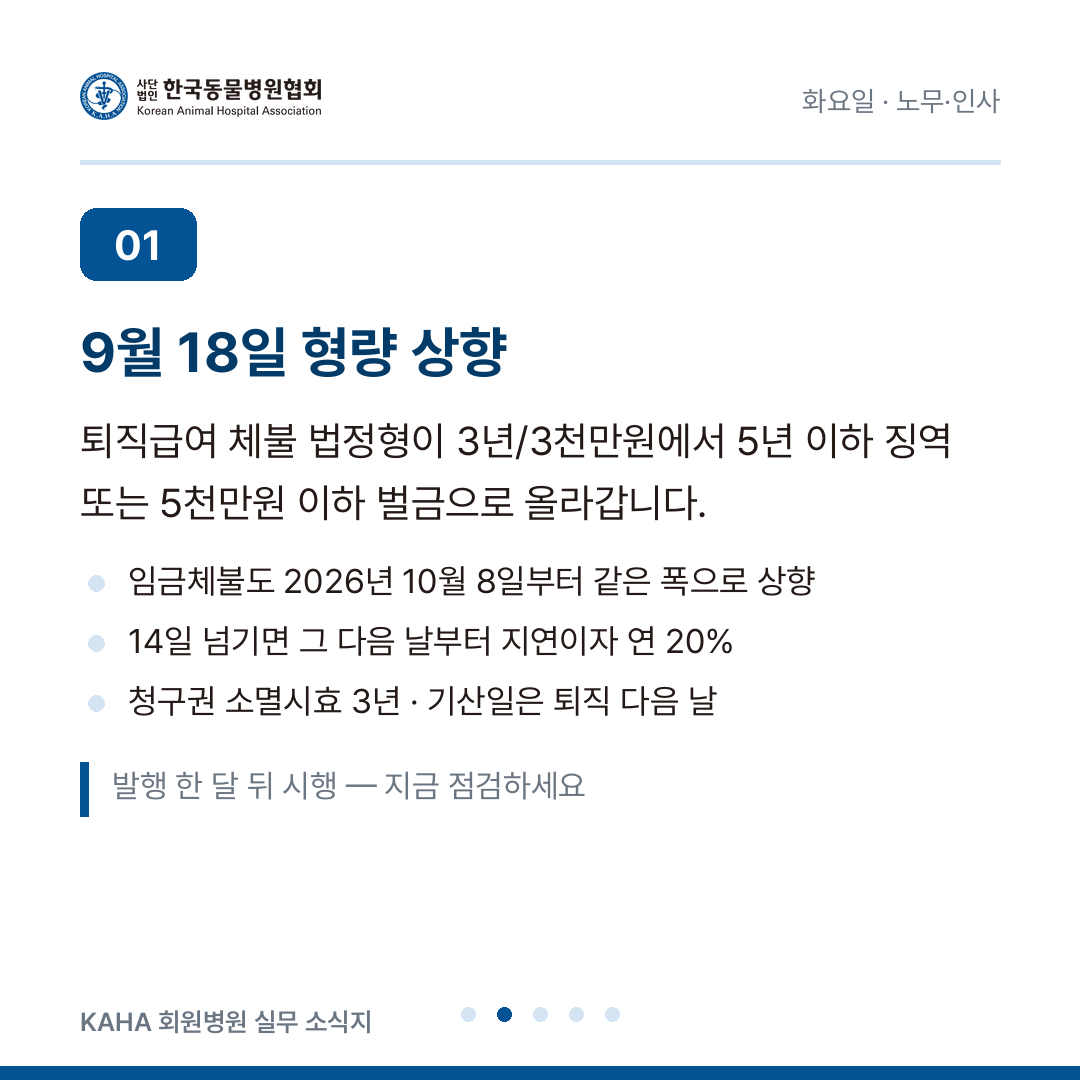
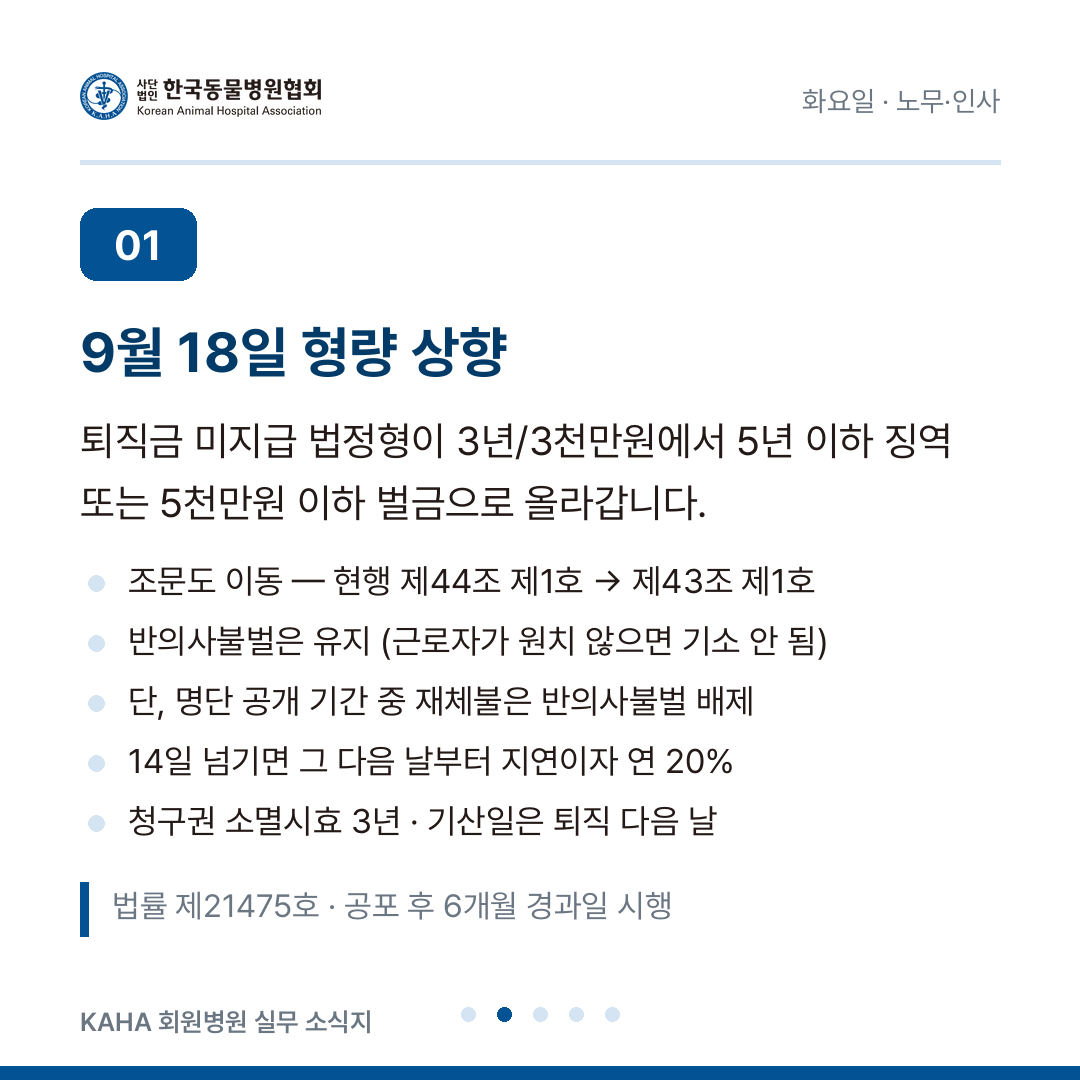
근로자퇴직급여 보장법 원문 대조 — 8/18 벌칙 조문 번호 오류 정정
원장 제공 원문(법률 제21475호)으로 재검증. 형량(5년/5천만원)과 시행일
(2026.9.18)은 정확했으나 조문 번호가 틀렸음.

- reference/근로자퇴직급여보장법.md 신설
- 퇴직금 미지급 벌칙: 현행 제44조 제1호 → 2026.9.18부터 제43조 제1호로
  이동하며 형량 상향. 조문 이동 설명 문단 추가, 출처란 정정
- 반의사불벌 절 신설 — 명단 공개 기간 중 재체불 시 배제(법 제43조 단서)
- 푸른씨앗 확대 시행일 7월 2일 → 7월 1일 정정, 부칙 특례표로 교체
- "종전 30인 이하"·"IRP 300만원 이하" 삭제 (원문 미확보)
- 상시 10명 미만 특례(제25조)·국가 지원 근거(제23조의14) 추가
- 임금체불(근로기준법 제109조, 2026.10.8)은 원문 미확보로 본문·카드에서
  제외하고 확인요청 1-2-b로 분리
- 8/18 카드 재생성 (넘침 없음)
- README: 시행 전 개정 조문 인용 원칙 신설(두 버전 병기·조문 이동 확인),
  공휴일 그대로 발행 규칙 명시
- 8/17 광복절 대체공휴일 → 그대로 발행 확정

Claude-Session: https://claude.ai/code/session_01AGZeeXA6uHWoVfsGg6D1AQ

diff --git a/reference/근로자퇴직급여보장법.md b/reference/근로자퇴직급여보장법.md
@@ -1,0 +1,141 @@
+# 근로자퇴직급여 보장법 (발췌 — 동물병원 실무 관련 조문)
+
+**[시행 2026. 7. 1.] [법률 제21475호, 2026. 3. 17., 일부개정]**
+**+ 제43조·제44조 개정규정은 [시행 2026. 9. 18.]**
+소관: 고용노동부 퇴직연금복지과 · 출처: 국가법령정보센터(law.go.kr)
+저장일: 2026-08-14 (원장 제공 원문)
+
+> 소식지 집필 시 **이 파일을 1차 근거로 사용**합니다.
+> 이 법은 **한 조문에 두 버전이 병기**되어 있습니다(현행 / 2026.9.18 시행). 벌칙을 인용할 때 **어느 버전인지 반드시 명시**하십시오.
+
+---
+
+## ★ 벌칙 — 2026. 9. 18. 시행으로 조문이 이동합니다 (가장 틀리기 쉬운 부분)
+
+### 현행 (～2026. 9. 17.)
+
+**제43조(벌칙)** 제37조제6항을 위반한 자는 **5년 이하의 징역 또는 5천만원 이하의 벌금**에 처한다. <개정 2021. 4. 13.>
+→ 금융거래정보 누설·목적 외 이용만 규율. 체불과 무관.
+
+**제44조(벌칙)** 다음 각 호의 어느 하나에 해당하는 자는 **3년 이하의 징역 또는 3천만원 이하의 벌금**에 처한다. 다만, **제1호 및 제2호의 경우**(「근로기준법」 제43조의2에 따라 명단 공개된 체불사업주가 명단 공개 기간 중에 제1호 또는 제2호에 해당하는 경우는 제외한다) **피해자의 명시적인 의사에 반하여 공소를 제기할 수 없다.** <개정 2021. 4. 13., 2025. 11. 11.>
+1. **제9조제1항을 위반하여 퇴직금을 지급하지 아니한 자**
+2. 근로자가 퇴직할 때에 제17조제2항·제3항, 제20조제5항, 제23조의7제2항 또는 제25조제3항을 위반하여 급여를 지급하지 아니하거나 부담금 또는 지연이자를 납입하지 아니한 자
+3. 제27조제4항을 위반하여 가입자 보호조치를 하지 아니한 퇴직연금사업자
+4. 제33조제3항 및 제4항을 위반한 퇴직연금사업자
+
+### 2026. 9. 18. 시행 (법률 제21475호, 2026. 3. 17. 개정)
+
+**제43조(벌칙)** 다음 각 호의 어느 하나에 해당하는 자는 **5년 이하의 징역 또는 5천만원 이하의 벌금**에 처한다. 다만, 제1호 및 제2호의 경우(「근로기준법」 제43조의2에 따라 명단 공개된 체불사업주가 명단 공개 기간 중에 제1호 또는 제2호에 해당하는 경우는 제외한다) **피해자의 명시적인 의사에 반하여 공소를 제기할 수 없다.** <개정 2021. 4. 13., 2026. 3. 17.>
+1. **제9조제1항을 위반하여 퇴직금을 지급하지 아니한 자**
+2. 근로자가 퇴직할 때에 제17조제2항·제3항, 제20조제5항, 제23조의7제2항 또는 제25조제3항을 위반하여 급여를 지급하지 아니하거나 부담금 또는 지연이자를 납입하지 아니한 자
+3. 제37조제6항을 위반한 자
+
+**제44조(벌칙)** 다음 각 호의 어느 하나에 해당하는 자는 **3년 이하의 징역 또는 3천만원 이하의 벌금**에 처한다. <개정 2021. 4. 13., 2025. 11. 11., 2026. 3. 17.>
+1. 제27조제4항을 위반하여 가입자 보호조치를 하지 아니한 퇴직연금사업자
+2. 제33조제3항 및 제4항을 위반한 퇴직연금사업자
+
+> **⚠ 집필 시 주의 (2026-08-14 실제 발생한 오류)**
+> 2026-08-18 호 출처란에 퇴직금 체불 벌칙을 **제44조**로 표기했으나, **2026. 9. 18.부터는 제43조**입니다.
+> 개정으로 **퇴직금 미지급이 제44조에서 제43조로 옮겨가면서** 형량이 3년/3천만원 → 5년/5천만원으로 올라간 구조입니다.
+> 발행일(8/18) 기준으로는 아직 제44조가 현행이므로, **"현행 제44조 → 9월 18일부터 제43조"**로 함께 써야 정확합니다.
+
+**부칙 <법률 제21475호, 2026. 3. 17.> 제1조(시행일)**
+이 법은 **2026년 7월 1일**부터 시행한다. 다만, **제43조와 제44조의 개정규정은 공포 후 6개월이 경과한 날부터 시행**한다. → law.go.kr 표기 **[시행일: 2026. 9. 18.]**
+
+**부칙 <법률 제21135호, 2025. 11. 11.>**
+제1조(시행일) 이 법은 **공포한 날부터 시행**한다.
+제2조(벌칙에 관한 적용례) 제44조의 개정규정은 이 법 시행 이후 발생한 위반행위부터 적용한다.
+→ 이때 들어온 것이 **반의사불벌 배제 단서**(명단 공개 기간 중 재체불 시 피해자 의사와 무관하게 공소 제기 가능)입니다.
+
+---
+
+## 제2조(정의) — 실무 관련
+
+- 제4호 **평균임금** = 「근로기준법」 제2조제1항제6호에 따른 평균임금
+- 제6호 **퇴직급여제도** = 확정급여형(DB) + 확정기여형(DC) + 중소기업퇴직연금기금제도 + 제8조 퇴직금제도
+- 제14호 **중소기업퇴직연금기금제도**(푸른씨앗) = **상시 100명 미만**의 근로자를 사용하는 사업 <개정 2026. 3. 17.>
+
+**부칙 <법률 제21475호> 제2조(적용 대상 특례)** — 제2조제14호의 "100명"은
+1. **2026년 7월 1일 ～ 2026년 12월 31일: 50명**
+2. **2027년 1월 1일부터: 100명**
+
+> **⚠ 주의**: 확대 시행일은 **2026년 7월 1일**입니다(법 본문 시행일과 동일). "7월 2일"은 오류.
+> 제26조제6호의 "상시 30명 이하"는 **공단이 퇴직연금사업자가 될 수 있는 범위**이지 기금제도 가입 대상이 아닙니다. 혼동 금지.
+
+## 제3조(적용범위)
+
+근로자를 사용하는 **모든 사업 또는 사업장**에 적용. 다만 동거하는 친족만을 사용하는 사업 및 가구 내 고용활동은 제외.
+→ **상시근로자 수 제한 없음.** 5인 미만 동물병원도 적용.
+
+## 제4조(퇴직급여제도의 설정) ★
+
+① 사용자는 퇴직하는 근로자에게 급여를 지급하기 위하여 퇴직급여제도 중 하나 이상의 제도를 설정하여야 한다. **다만, 계속근로기간이 1년 미만인 근로자, 4주간을 평균하여 1주간의 소정근로시간이 15시간 미만인 근로자에 대하여는 그러하지 아니하다.**
+② 하나의 사업에서 급여 및 부담금 산정방법의 적용 등에 **차등을 두어서는 아니 된다.**
+③ 제도 설정·변경 시 **근로자대표의 동의**
+④ 내용 변경 시 근로자대표 **의견 청취**, 불리하게 변경 시 **동의**
+
+## 제8조(퇴직금제도의 설정 등)
+
+① **계속근로기간 1년에 대하여 30일분 이상의 평균임금**
+② 중간정산은 **대통령령으로 정하는 사유**로 **근로자가 요구하는 경우**에 한함. 정산 후 계속근로기간은 정산시점부터 새로 계산.
+
+## 제9조(퇴직금의 지급 등)
+
+① 퇴직한 경우 **지급사유가 발생한 날부터 14일 이내** 지급. **다만 특별한 사정이 있는 경우 당사자 간 합의로 지급기일 연장 가능.** <개정 2021. 4. 13.>
+② 퇴직금은 **근로자가 지정한 개인형퇴직연금제도(IRP)의 계정등으로 이전하는 방법으로 지급.** 다만 **근로자가 55세 이후에 퇴직하여 급여를 받는 경우 등 대통령령으로 정하는 사유**가 있으면 예외. <신설 2021. 4. 13., 개정 2026. 3. 17.>
+③ 계정등을 지정하지 아니한 경우 **근로자 명의의 IRP 계정으로 이전.**
+
+> **미확보**: 제2항 단서의 대통령령 예외 전체 목록(시행령)은 이 파일에 없습니다. **"퇴직급여액 300만원 이하" 등 개별 예외를 단정해 쓰지 마십시오.**
+
+## 제10조(퇴직금의 시효)
+
+퇴직금을 받을 권리는 **3년간** 행사하지 아니하면 시효로 소멸.
+
+## 제11조(퇴직급여제도의 미설정에 따른 처리)
+
+사용자가 퇴직급여제도나 IRP를 설정하지 아니한 경우 **제8조제1항에 따른 퇴직금제도를 설정한 것으로 본다.**
+
+## 제12조(퇴직급여등의 우선변제)
+
+② **최종 3년간의 퇴직급여등**은 질권·저당권 담보채권, 조세·공과금 및 다른 채권에 **우선변제.**
+③ 퇴직금·DB 급여는 계속근로기간 1년에 대하여 **30일분의 평균임금**으로 계산.
+
+## 제25조(10명 미만을 사용하는 사업에 대한 특례)
+
+① 상시 **10명 미만** 사업은 사용자가 개별 근로자의 동의를 받거나 근로자의 요구에 따라 **IRP를 설정하면 퇴직급여제도를 설정한 것으로 본다.**
+② 준수사항: 퇴직연금사업자 선정 시 개별 근로자 동의, **연간 임금총액의 12분의 1 이상 현금 납입**, 가입자 추가 부담금 허용, 매년 1회 이상 정기 납입(지연 시 지연이자)
+③ 퇴직 등 사유 발생 시 **14일 이내** 미납 부담금 + 지연이자 납입. 합의로 연장 가능.
+
+> **실무**: 대부분의 동물병원이 이 특례 대상입니다.
+
+## 제32조(사용자의 책무) — 퇴직급여 감소 예방
+
+⑤ DB형 또는 퇴직금제도를 설정한 사용자는 다음 사유가 있으면 **근로자에게 퇴직급여가 감소할 수 있음을 미리 알리고** 근로자대표와 협의해 필요한 조치를 하여야 한다.
+1. 임금피크제(정년 연장·보장과 연계한 임금 조정)
+2. **소정근로시간을 1일 1시간 이상 또는 1주 5시간 이상 단축**하여 3개월 이상 계속 근로하기로 한 경우
+3. 주 52시간 시행에 따른 근로시간 단축으로 임금이 감소하는 경우
+4. 그 밖에 고용노동부령으로 정하는 경우
+
+→ 위반 시 **500만원 이하의 벌금**(제46조제3호)
+
+## 제47조(양벌규정)
+
+**제44조부터 제46조까지**의 위반행위 시 행위자 외 법인·개인에게도 벌금형.
+
+## 제48조(과태료)
+
+① **1천만원 이하** — 적립금 부족 미해소 사용자, **제32조제2항 교육 미실시 사용자** 등
+② **500만원 이하** — 퇴직연금규약 미신고, 제35조 시정명령 불이행 등
+
+---
+
+## 자주 틀리는 지점 정리
+
+| 항목 | 정확한 내용 | 흔한 오류 |
+|---|---|---|
+| 퇴직금 체불 벌칙 조문 | 현행 **제44조** → 2026.9.18부터 **제43조** | 개정 후에도 제44조라고 씀 |
+| 형량 | 3년/3천만원 → **5년/5천만원** (2026.9.18) | 시행일을 공포일(2026.3.17)로 씀 |
+| 반의사불벌 | 원칙 적용, **다만 명단 공개 기간 중 재체불은 배제** | 단서를 빠뜨림 |
+| 푸른씨앗 확대 | **2026.7.1**부터 50명 미만, 2027.1.1부터 100명 미만 | "7월 2일", "30인 이하 → 50인" |
+| IRP 이전 예외 | 55세 이후 퇴직 **등 대통령령** (시행령 미확보) | "300만원 이하"를 단정 |
+| 적용범위 | 상시근로자 수 무관 (제3조) | 5인 미만 제외로 오해 |

diff --git a/factcheck/확인요청.md b/factcheck/확인요청.md
@@ -18,8 +18,7 @@
   1. **그대로 8/17 발행** — 회원 원장님들이 휴일에도 확인하실 수 있으니 문제없다고 보시는 경우
   2. **한 칸씩 밀기** — 8/17분을 8/31(월)로 옮기고 8/18～8/28을 그대로 두거나, 전체를 하루씩 이동
   3. **8/17 건너뛰기** — 해당 호를 다음 월요일에 발행
-- **반영**: 결정만 알려주시면 파일명·`archive.json`·카드 폴더명·커밋 메시지를 일괄 조정하겠습니다. 별도 말씀이 없으면 **선택지 1(그대로 발행)**로 진행합니다.
-- **함께 정해두면 좋은 것**: 앞으로 공휴일에 발행일이 걸릴 때의 기본 규칙(그대로 발행 / 다음 평일로 이동)을 README 운영 규칙에 넣어두겠습니다.
+- ✅ **결정 (2026-08-14, 원장 확인): 선택지 1 — 그대로 8/17 발행.** 일정 변경 없음. 앞으로도 공휴일에 발행일이 걸리면 **그대로 발행**을 기본 규칙으로 하고 README 운영 규칙에 반영했습니다.
 
 ---
 
@@ -32,12 +31,21 @@
 - **반영 완료**: 8/21 본문에 보존기간·진료부 기재사항 표·검안부 기재사항 표 추가, 8/19에 별지 서식 번호와 동의 절차 추가, 8/26에 보존기간 복원, 카드 재생성, 8/12 팩트체크 기록 확정
 - **기록**: 재검증 중 검색엔진이 반복적으로 "3년"을 반환해 한때 정정했던 것은 **오류**였고, 최초 기록(1년)이 옳았습니다. 이후 조문 수치는 원문 대조 전까지 기존 기록을 뒤집지 않기로 했습니다.
 
-### 1-2. 퇴직급여 체불 형벌 상향 시행일
+### ~~1-2. 퇴직급여 체불 형벌 상향 시행일~~ ✅ **해결 (2026-08-14, 원문 확인)**
 
-- **왜**: 8/18 호의 **리드 문장**입니다. "2026년 9월 18일부터 5년 이하 징역 또는 5천만원 이하 벌금"으로 썼습니다.
-- **어디서**: law.go.kr → "근로자퇴직급여 보장법" → 화면 상단 **[연혁]** 또는 **[제정·개정문]** 탭 → 최근 개정 부칙의 시행일
-- **무엇을**: ① 벌칙 조항(제44조)의 형량이 5년/5천만원으로 개정되었는지 ② 부칙상 시행일이 2026-09-18이 맞는지
-- **반영**: 다르면 날짜와 형량을 정정합니다. 발행 한 달 전 시점을 리드로 쓴 것이라 날짜가 틀리면 호의 설득력이 크게 떨어집니다.
+- **결과: 형량·시행일 모두 정확했습니다.** 3년/3천만원 → **5년 이하 징역 또는 5천만원 이하 벌금**, 시행일 **2026. 9. 18.**
+  - 근거: 법률 제21475호(2026. 3. 17. 공포) 부칙 제1조 단서 — "다만, **제43조와 제44조의 개정규정은 공포 후 6개월이 경과한 날부터 시행**한다" · law.go.kr 표기 [시행일: 2026. 9. 18.]
+- **그런데 조문 번호가 틀렸습니다.** 퇴직금 미지급은 **현행 제44조 제1호 → 2026. 9. 18.부터 제43조 제1호**로 이동합니다. 개정 후의 제44조에는 퇴직연금사업자 벌칙만 남습니다. 출처란에 제44조로만 써 두었던 것을 정정했습니다.
+- **함께 확정된 것**: **반의사불벌 유지**, 다만 「근로기준법」 제43조의2에 따라 **명단 공개된 체불사업주가 명단 공개 기간 중 재체불하면 반의사불벌 배제**(법률 제21135호, 2025. 11. 11. 공포일 시행). 실무상 가장 중요한 부분이라 본문에 절을 새로 넣었습니다.
+- **반영 완료**: 8/18 리드 재작성, 조문 이동 설명 문단 추가, 반의사불벌 절 신설, 카드 재생성. 원문은 `reference/근로자퇴직급여보장법.md`에 저장.
+
+### 1-2-b. ★ 임금체불(근로기준법) 형벌 상향 — **아직 미확인, 본문에서 제외 중**
+
+- **왜**: 8/18 리드에 "임금체불도 같은 폭으로 올라가며 시행일은 2026년 10월 8일"이라고 썼는데, **근로기준법 원문을 확보하지 못했습니다.** 저장소 원칙에 따라 **본문과 카드에서 일단 삭제**했습니다. 복수 매체와 법무법인 칼럼이 일치하므로 사실일 가능성이 높지만, 근퇴법에서 실제로 조문 번호 오류가 나온 만큼 원문 없이는 싣지 않겠습니다.
+- **어디서**: law.go.kr → "근로기준법" → 조문 선택에서 **제109조(벌칙)** → 화면에 **두 버전이 병기**되어 있는지 확인 (근퇴법 제43조·제44조처럼 "[시행일: 2026. 10. 8.]" 표시가 붙습니다) → 이어서 화면 아래 **부칙** 중 최근 개정 부칙의 시행일
+- **무엇을**: ① 제109조 제1항의 형량이 5년/5천만원으로 개정되었는지 ② 시행일이 2026. 10. 8.이 맞는지 ③ 개정 법률 번호와 공포일
+- **함께 부탁드리면 좋은 것**: **제43조의2(체불사업주 명단 공개)** 조문 — 위 반의사불벌 배제 단서가 이 조문을 인용하고 있어, 원문이 있으면 "어떤 경우에 명단에 오르는지"를 본문에 넣을 수 있습니다.
+- **반영**: 확인되면 리드에 한 문장으로 복원하고 카드에도 되살립니다.
 
 ### 1-3. 동물병원 산재보험 업종요율
 
@@ -64,13 +72,11 @@
 
 | 호 | 법령 | 인용한 조문 | 확인할 조문 제목 |
 |---|---|---|---|
-| 8/18 | 근로자퇴직급여 보장법 | **제4조** | 퇴직급여제도의 설정 (1년 미만·주 15시간 미만 제외 단서) |
-| 8/18 | 〃 | **제9조** | 퇴직금의 지급 등 (14일 이내, IRP 이전) |
-| 8/18 | 〃 | **제10조** | 퇴직금의 시효 (3년) |
-| 8/18 | 〃 | **제44조** | 벌칙 (퇴직급여 미지급) |
-| 8/18 | 〃 시행령 | **제3조** | 퇴직금의 중간정산 사유 |
+| ~~8/18~~ | ~~근로자퇴직급여 보장법 제4조·제9조·제10조·제44조~~ | — | ✅ **해결 (2026-08-14 원문 대조)** — 제4조·제9조·제10조 정확. 벌칙은 **제44조(현행) → 제43조(2026.9.18)** 로 정정 |
+| 8/18 | 근로자퇴직급여 보장법 **시행령** | **제3조** | 퇴직금의 중간정산 사유 (+ 법 제9조 제2항 단서의 IRP 이전 예외 조문도 함께) |
 | 8/18 | 근로기준법 | **제2조 제1항 제6호** | 정의 — 평균임금 |
 | 8/18 | 〃 | **제37조** | 미지급 임금에 대한 지연이자 |
+| 8/18 | 〃 | **제109조 · 제43조의2** | 벌칙 / 체불사업주 명단 공개 → **1-2-b 참조** |
 | 8/25 | 근로기준법 | **제50조** | 근로시간 (제3항 대기시간) |
 | 8/25 | 〃 | **제53조** | 연장 근로의 제한 |
 | 8/25 | 〃 | **제54조** | 휴게 |
@@ -175,6 +181,7 @@
 **진행 방법**: 위 항목 중 확인되는 것만 알려주시면 됩니다. 1-1처럼 조문을 그대로 붙여넣어 주시면 가장 정확합니다.
 
 **갱신 이력**
+- 2026-08-14 (5차): **근로자퇴직급여 보장법** 전문 확보(`reference/근로자퇴직급여보장법.md`). 8/18 리드의 형량(5년/5천만원)과 시행일(2026.9.18)은 **정확했으나 조문 번호가 틀렸음** — 퇴직금 미지급은 제44조에서 **제43조로 이동**하며 형량이 올라가는 구조. 원인은 개정 조문이 한 조문에 **두 버전으로 병기**되는 형식을 확인하지 않은 것. 함께 **반의사불벌 배제 단서**(명단 공개 기간 중 재체불)를 새로 확인해 본문에 절 신설. 푸른씨앗 확대 시행일 **7월 2일 → 7월 1일** 정정, "종전 30인 이하"·"IRP 300만원 이하" 삭제, 상시 10명 미만 특례(제25조) 추가. 임금체불(근로기준법 제109조) 부분은 원문 미확보로 **본문·카드에서 제외**하고 1-2-b로 분리. 8/17 발행 여부는 **그대로 발행**으로 확정.
 - 2026-08-14 (4차): **근로기준법 시행령 [별표 1]** 원문 확보(reference/). 8/25 적용표 15개 행 1:1 대조 — **오류 없음.** 항 단위 구분(제55조①만, 제23조②만)과 제50조 미적용 단서를 본문에 보강.
 - 2026-08-14 (3차): **수의사법 시행령** 전문 확보(reference/수의사법시행령.md). 시행령 대조 과정에서 **8/17 오류 1건 추가 발견·정정** — 무면허 진료 예외를 "시행규칙 제8조의 2가지뿐"으로 단정했으나 실제로는 **시행령 제12조에 4유형**이 있었음(시행규칙 제8조는 제4호의 세부). 진료부 위반이 **면허효력 정지 사유**이기도 하다는 점(시행령 제20조의2①6)을 8/21에 추가. 재발 방지를 위해 **README에 「법령 인용 원칙」 신설**. 수의사법 외 법령의 조문 번호 일괄 확인 요청(1-6) 추가.
 - 2026-08-14 (2차): 수의사법·시행규칙 **전문 확보**하여 reference/ 폴더에 저장. 1-4·1-5 해결, 2-1 우선순위 하향. 원문 대조 과정에서 **조문 번호 오류 2건**(진료비 게시 제20조의2→제20조, 예상비용 고지 제20조의3→제19조)과 **내용 오류 1건**(원내 투약 시 진료부 기재→수의사처방관리시스템 입력)을 발견해 정정. 진단서·처방전 부본 3년, 게시 방법 강화(2025.7.1), 2026.11.13 시행 예정 개정을 새로 반영.

diff --git a/issues/2026-08-18.md b/issues/2026-08-18.md
@@ -5,7 +5,17 @@
 
 ## 먼저 알아두실 것 — 2026년 9월 18일 시행
 
-**퇴직급여 체불에 대한 형량이 3년 이하 징역 또는 3천만원 이하 벌금에서 5년 이하 징역 또는 5천만원 이하 벌금으로 상향됩니다.** 시행일은 2026년 9월 18일, 이 소식지가 나가고 한 달 뒤입니다. 임금체불(근로기준법)도 같은 폭으로 올라가며 시행일은 2026년 10월 8일입니다. 퇴직금 계산과 지급 절차를 지금 한 번 점검해 두시는 편이 좋겠습니다.
+**퇴직금을 지급하지 않은 사용자에 대한 형량이 3년 이하 징역 또는 3천만원 이하 벌금에서 5년 이하 징역 또는 5천만원 이하 벌금으로 상향됩니다.** 2026년 3월 17일 공포된 개정 근로자퇴직급여 보장법(법률 제21475호)에 따른 것이고, 부칙은 이 부분을 "공포 후 6개월이 경과한 날"부터 시행하도록 정해 **시행일이 2026년 9월 18일**입니다. 이 소식지가 나가고 한 달 뒤입니다.
+
+**조문 번호가 바뀌는 점**을 함께 알아두셔야 합니다. 퇴직금 미지급은 지금은 **제44조 제1호**이지만, 9월 18일부터는 **제43조 제1호**로 옮겨가면서 형량이 올라갑니다. 개정 후의 제44조에는 퇴직연금사업자에 대한 벌칙만 남습니다. 자료를 찾아보실 때 조문 번호만 보고 "형량이 그대로네"라고 판단하시면 어긋납니다.
+
+## 반의사불벌은 유지되지만, 예외가 생겼습니다
+
+퇴직금 미지급은 **피해자의 명시적인 의사에 반하여 공소를 제기할 수 없는 범죄**입니다. 근로자가 처벌을 원하지 않는다는 의사를 밝히면 기소되지 않는다는 뜻이고, 이 구조는 9월 18일 이후에도 그대로입니다.
+
+다만 단서가 붙어 있습니다. **「근로기준법」 제43조의2에 따라 명단이 공개된 체불사업주가 명단 공개 기간 중에 다시 퇴직금을 체불한 경우에는 반의사불벌이 적용되지 않습니다.** 근로자와 합의해도 공소가 제기될 수 있습니다. 한 번 명단에 오르면 그 다음부터는 성격이 달라지는 구조입니다.
+
+퇴직금 계산과 지급 절차를 지금 한 번 점검해 두시는 편이 좋겠습니다.
 
 ## 오해 1 — "우리는 5인 미만이라 퇴직금이 없다"
 
@@ -59,13 +69,22 @@
 ## 지급 절차
 
 - **퇴직일부터 14일 이내** 지급(법 제9조 제1항). 특별한 사정이 있으면 **당사자 간 합의로 지급기일 연장 가능**입니다. 다만 합의했다고 지연이자와 형사책임까지 자동으로 없어지는 것은 아닙니다.
-- 지급 방법은 원칙적으로 **근로자가 지정한 IRP(개인형퇴직연금) 계정으로 이전**(법 제9조 제2항). 55세 이후 퇴직, 퇴직급여액 300만원 이하 등 대통령령이 정한 예외에 해당하는지 먼저 확인하세요.
+- 지급 방법은 원칙적으로 **근로자가 지정한 IRP(개인형퇴직연금) 계정으로 이전**(법 제9조 제2항). 근로자가 55세 이후에 퇴직하여 급여를 받는 경우 등 **대통령령이 정한 예외**에 해당하는지 먼저 확인하세요. 근로자가 계정을 지정하지 않으면 **근로자 명의의 IRP 계정으로 이전**합니다(같은 조 제3항).
 - 14일(연장 시 연장된 날)까지 지급하지 않으면 그 다음 날부터 **연 20% 지연이자**가 붙습니다.
 - 퇴직금 청구권 **소멸시효는 3년**, 기산일은 퇴직한 날의 다음 날입니다.
 
 ## 지금 확인해 볼 만한 제도 — 푸른씨앗
 
-중소기업퇴직연금기금('푸른씨앗')의 가입 대상이 **2026년 7월 2일부터 상시근로자 50인 미만**으로 확대되었습니다(종전 30인 이하). 2027년 1월부터는 100인 미만까지 단계적으로 넓어집니다. 자영업자·노무제공자의 IRP 가입도 가능해졌습니다. **대부분의 동물병원이 지금 바로 가입 가능한 구간**에 들어옵니다.
+중소기업퇴직연금기금('푸른씨앗')의 가입 대상이 넓어졌습니다. 개정법은 대상을 **상시 100명 미만**으로 정하면서(법 제2조 제14호), 부칙에서 단계를 두었습니다.
+
+| 기간 | 가입 대상 |
+|---|---|
+| **2026년 7월 1일 ～ 12월 31일** | 상시 **50명 미만** |
+| **2027년 1월 1일부터** | 상시 **100명 미만** |
+
+**대부분의 동물병원이 지금 바로 가입 가능한 구간**에 들어옵니다. 국가가 사용자부담금·운영비용의 일부를 예산 범위에서 지원할 수 있는 근거도 법에 있습니다(제23조의14 제1항). 지원 요건과 수준은 고용노동부장관 고시와 대통령령으로 정해지므로 근로복지공단에 확인하시면 됩니다.
+
+한편 상시 **10명 미만** 사업장에는 별도 특례가 있습니다(법 제25조). 개별 근로자의 동의를 받거나 근로자의 요구에 따라 **IRP를 설정하면 퇴직급여제도를 설정한 것으로 봅니다.** 이 경우 가입자별로 **연간 임금총액의 12분의 1 이상**을 현금으로 매년 1회 이상 정기 납입해야 하고, 퇴직 등 사유가 생기면 **14일 이내**에 미납 부담금과 지연이자를 넣어야 합니다.
 
 한편 '모든 사업장 퇴직연금 사외적립 의무화'는 2026년 2월 6일 노사정 공동선언으로 방향이 발표된 단계이고, **법 개정이 이루어지지 않은 추진 중 사안**입니다. 일부에서 도는 연도별 단계 일정도 확정된 것이 아닙니다.
 
@@ -80,7 +99,7 @@
 
 ## 출처
 
-- 국가법령정보센터(law.go.kr): 근로자퇴직급여 보장법 제4조·제9조·제10조·제44조 및 시행령 제3조, 근로기준법 제2조·제37조
+- 국가법령정보센터(law.go.kr): 근로자퇴직급여 보장법[시행 2026. 7. 1., 법률 제21475호] 제2조·제3조·제4조·제8조·제9조·제10조·제23조의14·제25조, **제44조(현행)·제43조(2026. 9. 18. 시행)** 및 부칙 제1조·제2조, 같은 법 시행령 제3조, 근로기준법 제2조·제37조·제43조의2
 - 대법원 2010. 5. 20. 선고 2007다90760 전원합의체 판결
 - 고용노동부 퇴직금·평균임금 산정 안내 — moel.go.kr
 - 근로복지공단 중소기업퇴직연금기금(푸른씨앗) 안내

diff --git a/factcheck/2026-08-18.md b/factcheck/2026-08-18.md
@@ -39,3 +39,39 @@
 
 - **리드 교체**: 일반적인 퇴직금 해설로 시작하려던 구성을, 발행 한 달 뒤인 **2026.9.18 형벌 상향 시행**을 리드로 올려 시의성을 확보. 해당 시행일은 별도 재검색으로 교차확인함.
 - **의무화 일정 삭제**: 퇴직연금 전면 의무화의 연도별 단계 일정을 본문에서 삭제하고 "추진 중·미확정"으로만 서술.
+
+## 원문 대조 (2026-08-14, 4차) — 근로자퇴직급여 보장법 전문 확보
+
+원장 제공 **근로자퇴직급여 보장법**[시행 2026. 7. 1.] [법률 제21475호, 2026. 3. 17., 일부개정] 원문으로 재검증했습니다. 원문은 `reference/근로자퇴직급여보장법.md`에 저장했습니다.
+
+| # | 본문 주장 | 판정 | 원문 근거 |
+|---|---|---|---|
+| 20 | 형량 3년/3천만원 → **5년/5천만원** | ✅ 확인 | 현행 제44조(3년/3천만원) → 개정 제43조(5년/5천만원) |
+| 21 | 시행일 **2026년 9월 18일** | ✅ 확인 | 부칙(법률 제21475호) 제1조 단서 "제43조와 제44조의 개정규정은 공포 후 6개월이 경과한 날부터 시행" · law.go.kr 표기 [시행일: 2026. 9. 18.] |
+| 22 | 개정 근거 법률 = **법률 제21475호(2026. 3. 17. 공포)** | ✅ 확인 | 부칙 표제 |
+| 23 | 퇴직금 미지급 조문이 **제44조 제1호 → 제43조 제1호로 이동** | ✅ 확인 (신규 발견) | 개정 제43조 각 호 / 개정 제44조는 퇴직연금사업자 벌칙만 잔존 |
+| 24 | **반의사불벌** 적용, 다만 근로기준법 제43조의2 명단 공개 기간 중 재체불은 배제 | ✅ 확인 (신규 추가) | 제43조·제44조 단서 (2025. 11. 11. 법률 제21135호로 신설, 공포일 시행) |
+| 25 | 지급요건 = 계속근로 1년 이상 AND 4주 평균 주 15시간 이상 | ✅ 확인 (원문 대조) | 제4조 제1항 단서 |
+| 26 | 적용범위 — 상시근로자 수 무관 | ✅ 확인 (원문 대조) | 제3조 "근로자를 사용하는 모든 사업 또는 사업장" |
+| 27 | 퇴직금 = 계속근로 1년에 30일분 이상 평균임금 | ✅ 확인 (원문 대조) | 제8조 제1항 |
+| 28 | 14일 이내 지급, 합의로 연장 가능 | ✅ 확인 (원문 대조) | 제9조 제1항 |
+| 29 | IRP 계정 이전 원칙, 미지정 시 근로자 명의 계정으로 이전 | ✅ 확인 (원문 대조) | 제9조 제2항·제3항 |
+| 30 | 소멸시효 3년 | ✅ 확인 (원문 대조) | 제10조 |
+| 31 | 푸른씨앗 대상 = 상시 100명 미만, 부칙 특례로 2026.7.1～12.31 **50명**, 2027.1.1부터 **100명** | ✅ 확인 — **본문의 "7월 2일"을 7월 1일로 정정** | 제2조 제14호, 부칙 제2조 |
+| 32 | 상시 10명 미만 특례 — IRP 설정 시 퇴직급여제도 설정 간주, 연간 임금총액 1/12 이상 납입 | ✅ 확인 (신규 추가) | 제25조 |
+| 33 | 국가의 푸른씨앗 지원 근거 | ✅ 확인 (신규 추가) | 제23조의14 제1항 |
+
+## 발행 전 정정 사항 (4차 — 조문 번호 오류)
+
+- **★ 조문 번호 오류 정정**: 출처란에 퇴직금 체불 벌칙을 **제44조**로만 표기했으나, **2026. 9. 18.부터는 제43조**입니다. 개정으로 퇴직금 미지급이 제44조에서 제43조로 **옮겨가면서** 형량이 올라간 구조인데, 이를 파악하지 못하고 "제44조의 형량이 올라간다"는 전제로 썼습니다. 본문에 조문 이동을 설명하는 문단을 새로 넣고, 출처란을 "제44조(현행)·제43조(2026. 9. 18. 시행)"로 고쳤습니다.
+  - 원인: 개정 조문이 **한 조문에 두 버전으로 병기**되는 형식을 확인하지 않고 현행 조문 번호만 사용. `reference/근로자퇴직급여보장법.md`에 이 형식에 대한 경고를 적어 두었습니다.
+- **푸른씨앗 시행일 정정**: "2026년 7월 2일" → **2026년 7월 1일**(부칙 제1조 본문 시행일과 동일). "종전 30인 이하"는 원문 대조가 되지 않아 삭제했습니다. 제26조 제6호의 "상시 30명 이하"는 **공단이 퇴직연금사업자가 될 수 있는 범위**이지 기금제도 가입 대상이 아니므로 혼동 소지가 있습니다.
+- **IRP 이전 예외 축소**: "퇴직급여액 300만원 이하"를 삭제했습니다. 법 제9조 제2항 단서는 "55세 이후 퇴직 등 대통령령으로 정하는 사유"까지만 규정하고, **시행령 원문을 확보하지 못했습니다.**
+- **반의사불벌 단서 신규 추가**: 원문에서 확인된 내용으로, 실무상 가장 중요한 부분입니다. 명단 공개 기간 중 재체불 시 근로자와 합의해도 기소될 수 있습니다.
+- **카드 bullet 교체**: 미검증 항목("임금체불도 2026년 10월 8일부터 같은 폭 상향")을 카드에서 빼고 원문으로 확인된 조문 이동·반의사불벌로 교체했습니다.
+
+## 본문에서 제외한 항목 (4차 추가)
+
+- **임금체불(근로기준법 제109조) 형량 상향 및 2026년 10월 8일 시행일** — 복수 매체와 법무법인 칼럼이 일치하나 **근로기준법 원문을 확보하지 못해** 본문과 카드에서 제외했습니다. 원문 확인 시 리드에 복원합니다. (`확인요청.md` 1-2 참조)
+- **IRP 이전 예외 중 "퇴직급여액 300만원 이하"** — 시행령 미확보.
+- **푸른씨앗 종전 가입 대상("30인 이하")** — 개정 전 조문 미확보.

diff --git a/README.md b/README.md
@@ -42,6 +42,7 @@
 | `reference/수의사법시행령.md` | 수의사법 시행령 [대통령령 제34737호] |
 | `reference/수의사법시행규칙.md` | 수의사법 시행규칙 [농림축산식품부령 제765호] |
 | `reference/근로기준법시행령_별표1.md` | 근로기준법 시행령 [별표 1] — 상시 4명 이하 사업장 적용 규정 |
+| `reference/근로자퇴직급여보장법.md` | 근로자퇴직급여 보장법 [법률 제21475호] + 제43조·제44조 2026.9.18 시행 개정 |
 
 ### 절차
 
@@ -51,6 +52,8 @@
    - 해당 내용을 **본문에서 뺀다** (기본)
    - **원장에게 확인을 요청**하고, 확인될 때까지 싣지 않는다 → `factcheck/확인요청.md`에 **어디서 무엇을 볼지** 구체적으로 적는다
 4. **기존 기록과 새 검색 결과가 충돌하면, 원문 대조 전까지 기존 기록을 뒤집지 않는다.**
+5. **아직 시행되지 않은 개정을 인용할 때는 "조문 번호가 그대로인지"를 확인한다.** 국가법령정보센터는 시행 전 개정이 있는 조문을 **한 조문 아래 두 버전으로 병기**하고, 개정 버전 끝에 `[시행일: YYYY. M. D.]`를 붙입니다. 형량·의무가 **다른 조문으로 옮겨가는** 경우가 있으므로 현행 조문 번호만 쓰면 틀립니다. 이때는 **"현행 제○조 → 시행일부터 제△조"** 형식으로 함께 씁니다. 시행일은 **부칙 제1조**(본문 시행일 + 단서의 개별 시행일)로 확인합니다.
+   - (실제 오류: 퇴직금 체불 벌칙을 제44조로만 표기했으나 2026.9.18부터 **제43조로 이동**하면서 형량이 상향되는 구조였음)
 
 ### 확인 요청 방법
 
@@ -100,7 +103,9 @@
 
 ## 자동 발행 (매 평일)
 
-평일 오전 6시(KST)에 자동 실행되는 Routine이 그날 테마의 소식지를 생성·팩트체크한 뒤 이 저장소 main에 푸시하고, Vercel이 즉시 배포합니다. 이미 준비된 호가 있는 날은 재검증 후 발행만 합니다. 콘텐츠 방침: **WSAVA·AAHA 등 무료 공개 가이드라인을 우선 인용**하고, 월·수요일은 가이드라인 기반 내용을 우선 편성합니다.
+평일 오전 6시(KST)에 자동 실행되는 Routine이 그날 테마의 소식지를 생성·팩트체크한 뒤 이 저장소 main에 푸시하고, Vercel이 즉시 배포합니다. 이미 준비된 호가 있는 날은 재검증 후 발행만 합니다.
+
+**발행일 규칙** — 토·일은 발행하지 않습니다. **공휴일(대체공휴일 포함)은 평일이면 그대로 발행합니다**(2026-08-14 원장 확정). 일정을 미루거나 건너뛰지 않으므로 요일 테마도 그대로 유지됩니다. 콘텐츠 방침: **WSAVA·AAHA 등 무료 공개 가이드라인을 우선 인용**하고, 월·수요일은 가이드라인 기반 내용을 우선 편성합니다.
 
 ## 해외 가이드라인 서술 원칙 (필수)
 
